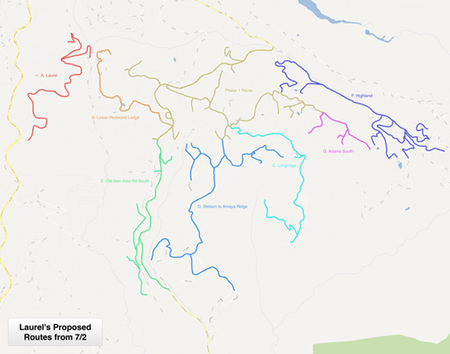
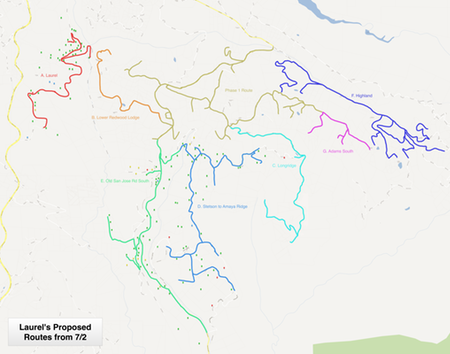
Added house data for routes D & E.  Updated route D to reflect this new data.

diff --git a/html/index.html b/html/index.html
@@ -43,25 +43,15 @@
             </div>
 
             <div class="document">
-                <div class="icon"><a href="images/laurel-house-map.png"><div>
-                    <img src="thumbs/laurel-house-map.png"><br>
-                    Laurel House Map (full-size)
-                </div></a></div>
-                <p>This image is a full-size version of the map which has the state of individual homes marked on it.
-                    Green shows a house which we know to be interested (at some price level), red shows a house which
-                    we know to be uninterested, yellow a house for which we don't have any information, and blue a house
-                    we've contacted but from which we haven't heard anything.  The only route currently available is
-                    route A (Laurel).</p>
-            </div>
-
-            <div class="document">
                 <div class="icon"><a href="images/laurel-proposed-routes-2012.07.02.png"><div>
                     <img src="thumbs/laurel-proposed-routes-2012.07.02.png"><br>
                     Laurel 7/2 Routes (full-size)
                 </div></a></div>
                 <p>This image is a full-size version of the map which has the proposed routes developed by the Laurel
-                    community as of 7/2/2012.  These routes are a preliminary proposal, and have not been considered by
-                    all interested parties as yet.</p>
+                    community as of 7/2/2012. In addition to the routes, it has the state of individual homes marked on
+                    it. Green shows a house which we know to be interested (at some price level), red shows a house
+                    which we know to be uninterested, yellow a house for which we don't have any information, and blue a
+                    house we've contacted but from which we haven't heard anything.</p>
             </div>
         </div>
     </body>
